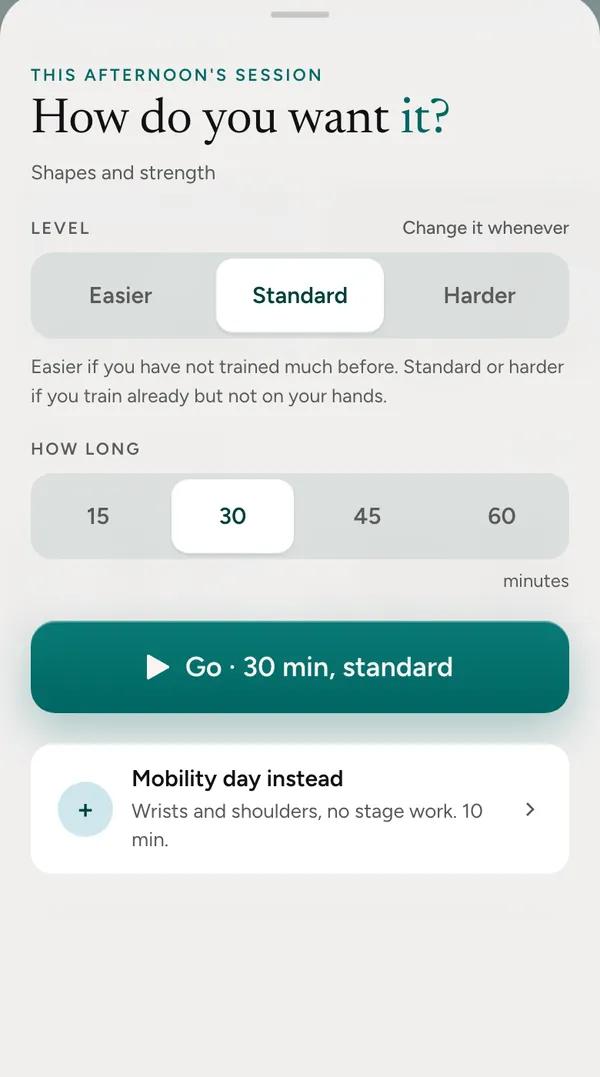
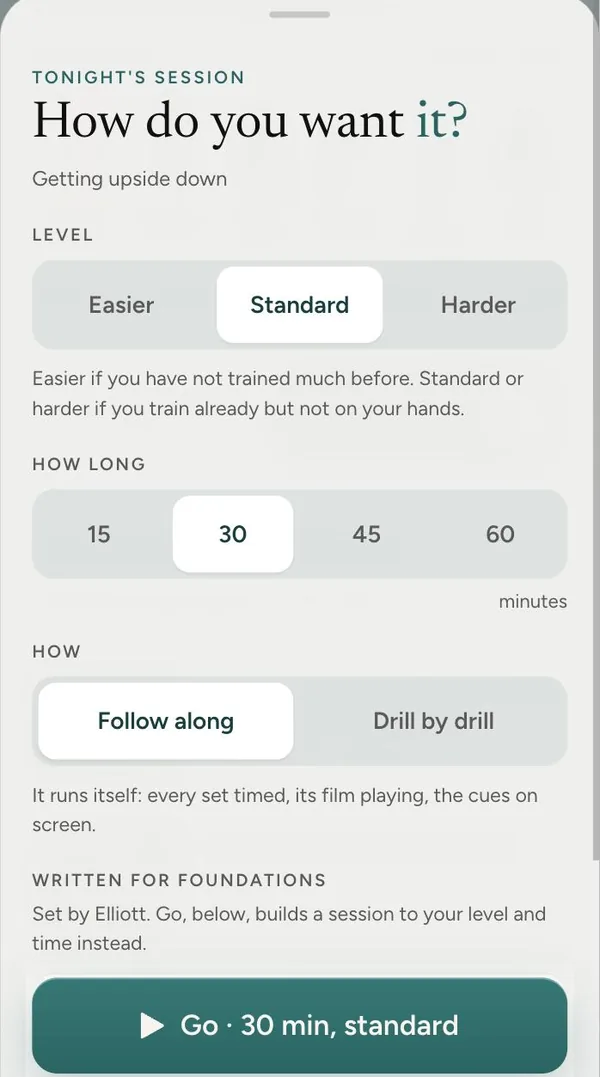
Home page: the five app pictures retaken from the new app (the six stages with check points open, choosing a session, the player, Learn at Foundations, the free form check), the explainers caption now Learn, and the image links versioned so the old ones are not served from cache

diff --git a/index.html b/index.html
@@ -3333,23 +3333,23 @@ details.faq-item a { color: var(--green); font-weight: 600; text-decoration: und
     <button type="button" class="app2-nav app2-prev" aria-label="Previous screens" onclick="appRail(-1)" disabled>&larr;</button>
     <div class="app2-phones" id="appPhones">
       <figure class="app2-phone">
-        <div class="app2-screen"><img src="assets/app/ladder.webp" alt="The whole ladder: six stages, from Foundations to the press" width="600" height="1077" loading="lazy" decoding="async"></div>
+        <div class="app2-screen"><img src="assets/app/ladder.webp?v=20261018" alt="The six stages, from Foundations to the press, and the check points for the one you are on" width="600" height="1077" loading="lazy" decoding="async"></div>
         <figcaption><b>Six stages</b>Reach the check points and the next one opens.</figcaption>
       </figure>
       <figure class="app2-phone">
-        <div class="app2-screen"><img src="assets/app/choose.webp" alt="Choosing a session: level and how long" width="600" height="1077" loading="lazy" decoding="async"></div>
+        <div class="app2-screen"><img src="assets/app/choose.webp?v=20261018" alt="Choosing a session: level and how long" width="600" height="1077" loading="lazy" decoding="async"></div>
         <figcaption><b>Two taps</b>How long and how hard, and it builds the session.</figcaption>
       </figure>
       <figure class="app2-phone">
-        <div class="app2-screen"><img src="assets/app/player.webp" alt="The follow along player, timing a set" width="600" height="1077" loading="lazy" decoding="async"></div>
+        <div class="app2-screen"><img src="assets/app/player.webp?v=20261018" alt="The follow along player, timing a set" width="600" height="1077" loading="lazy" decoding="async"></div>
         <figcaption><b>Follow along</b>Every set timed, every drill filmed.</figcaption>
       </figure>
       <figure class="app2-phone">
-        <div class="app2-screen"><img src="assets/app/explainers.webp" alt="Short films answering common questions, and fixes for what goes wrong" width="600" height="1077" loading="lazy" decoding="async"></div>
-        <figcaption><b>Answers on film</b>Short films on the questions people actually ask.</figcaption>
+        <div class="app2-screen"><img src="assets/app/explainers.webp?v=20261018" alt="Learn at Foundations: pick the thing in your way, with a short read or film for each" width="600" height="1077" loading="lazy" decoding="async"></div>
+        <figcaption><b>Learn</b>Pick the thing in your way, and there is a short read or film for it.</figcaption>
       </figure>
       <figure class="app2-phone">
-        <div class="app2-screen"><img src="assets/app/formcheck.webp" alt="Send one clip, free, and Elliott replies on video" width="600" height="1077" loading="lazy" decoding="async"></div>
+        <div class="app2-screen"><img src="assets/app/formcheck.webp?v=20261018" alt="Send one clip, free, and Elliott replies on video" width="600" height="1077" loading="lazy" decoding="async"></div>
         <figcaption><b>A free form check</b>Send me a clip and I show you, on video, the one thing to change.</figcaption>
       </figure>
     </div>
